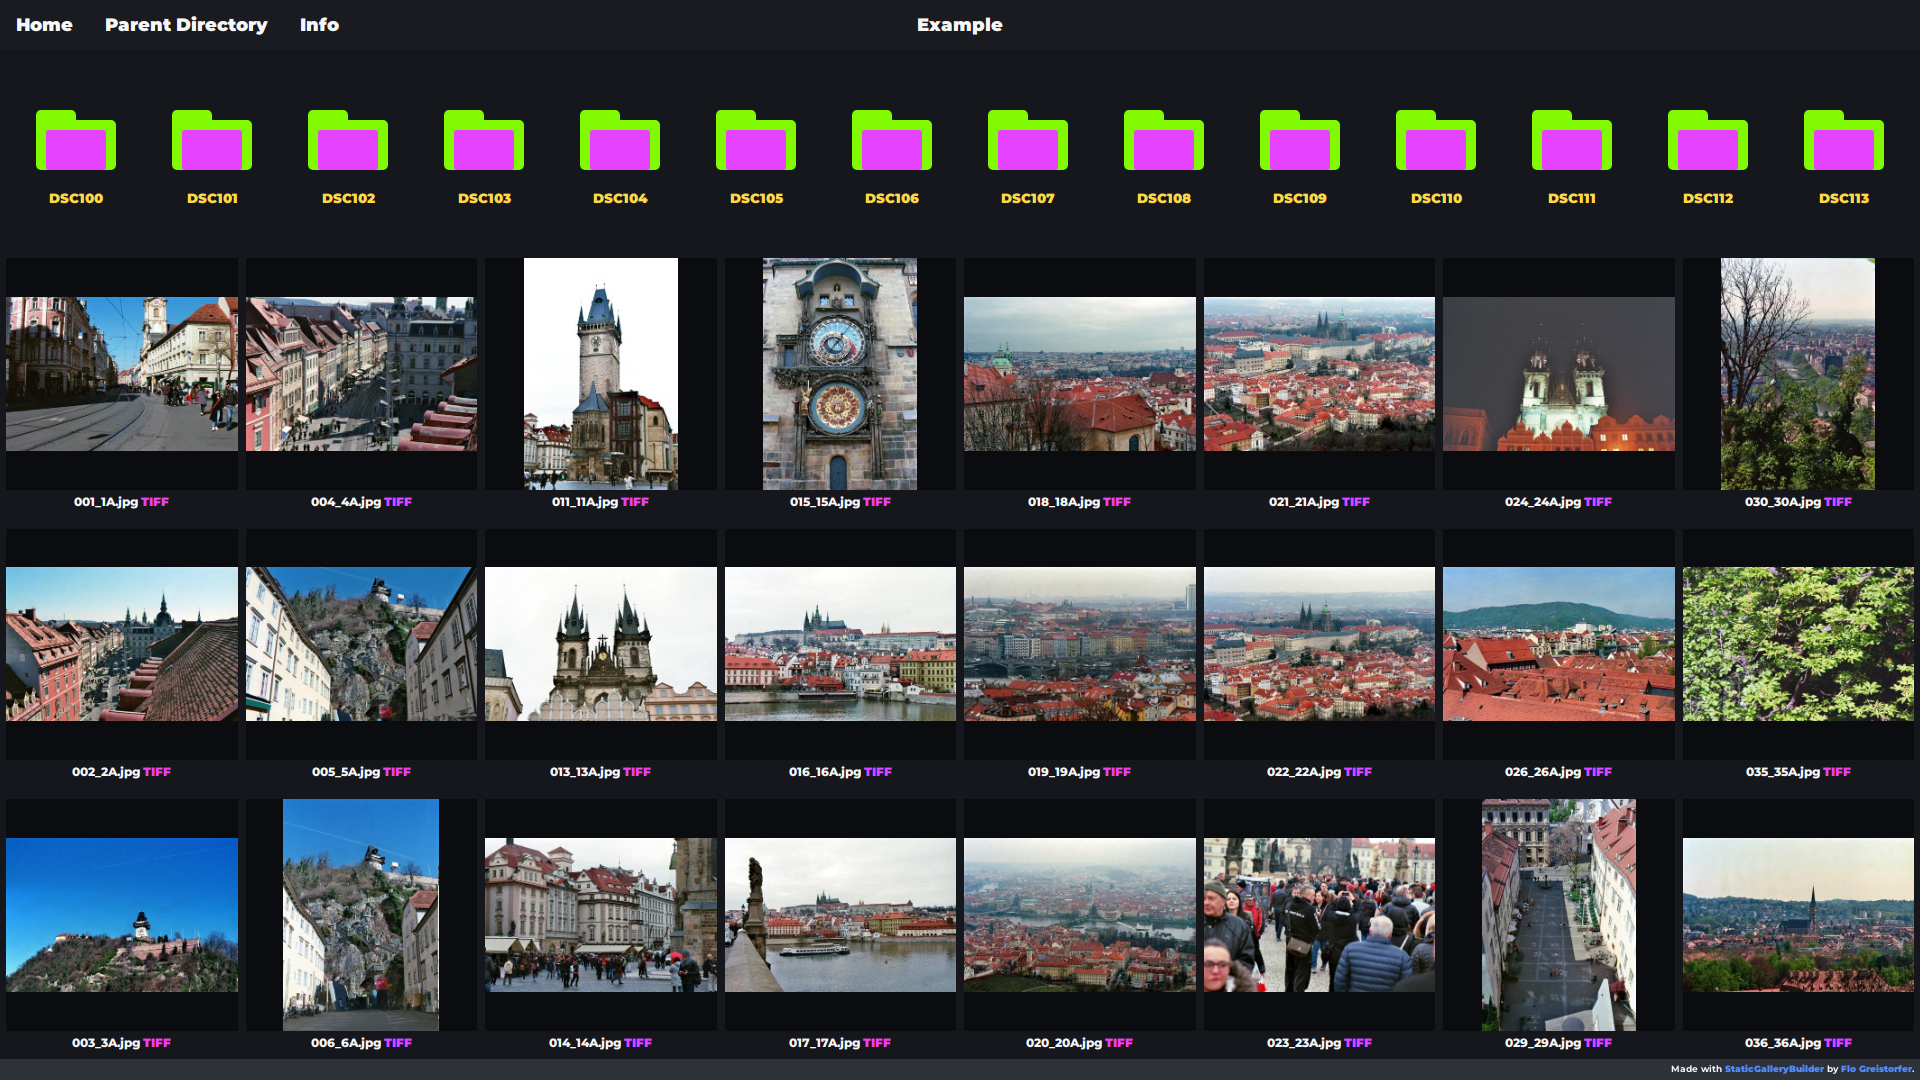
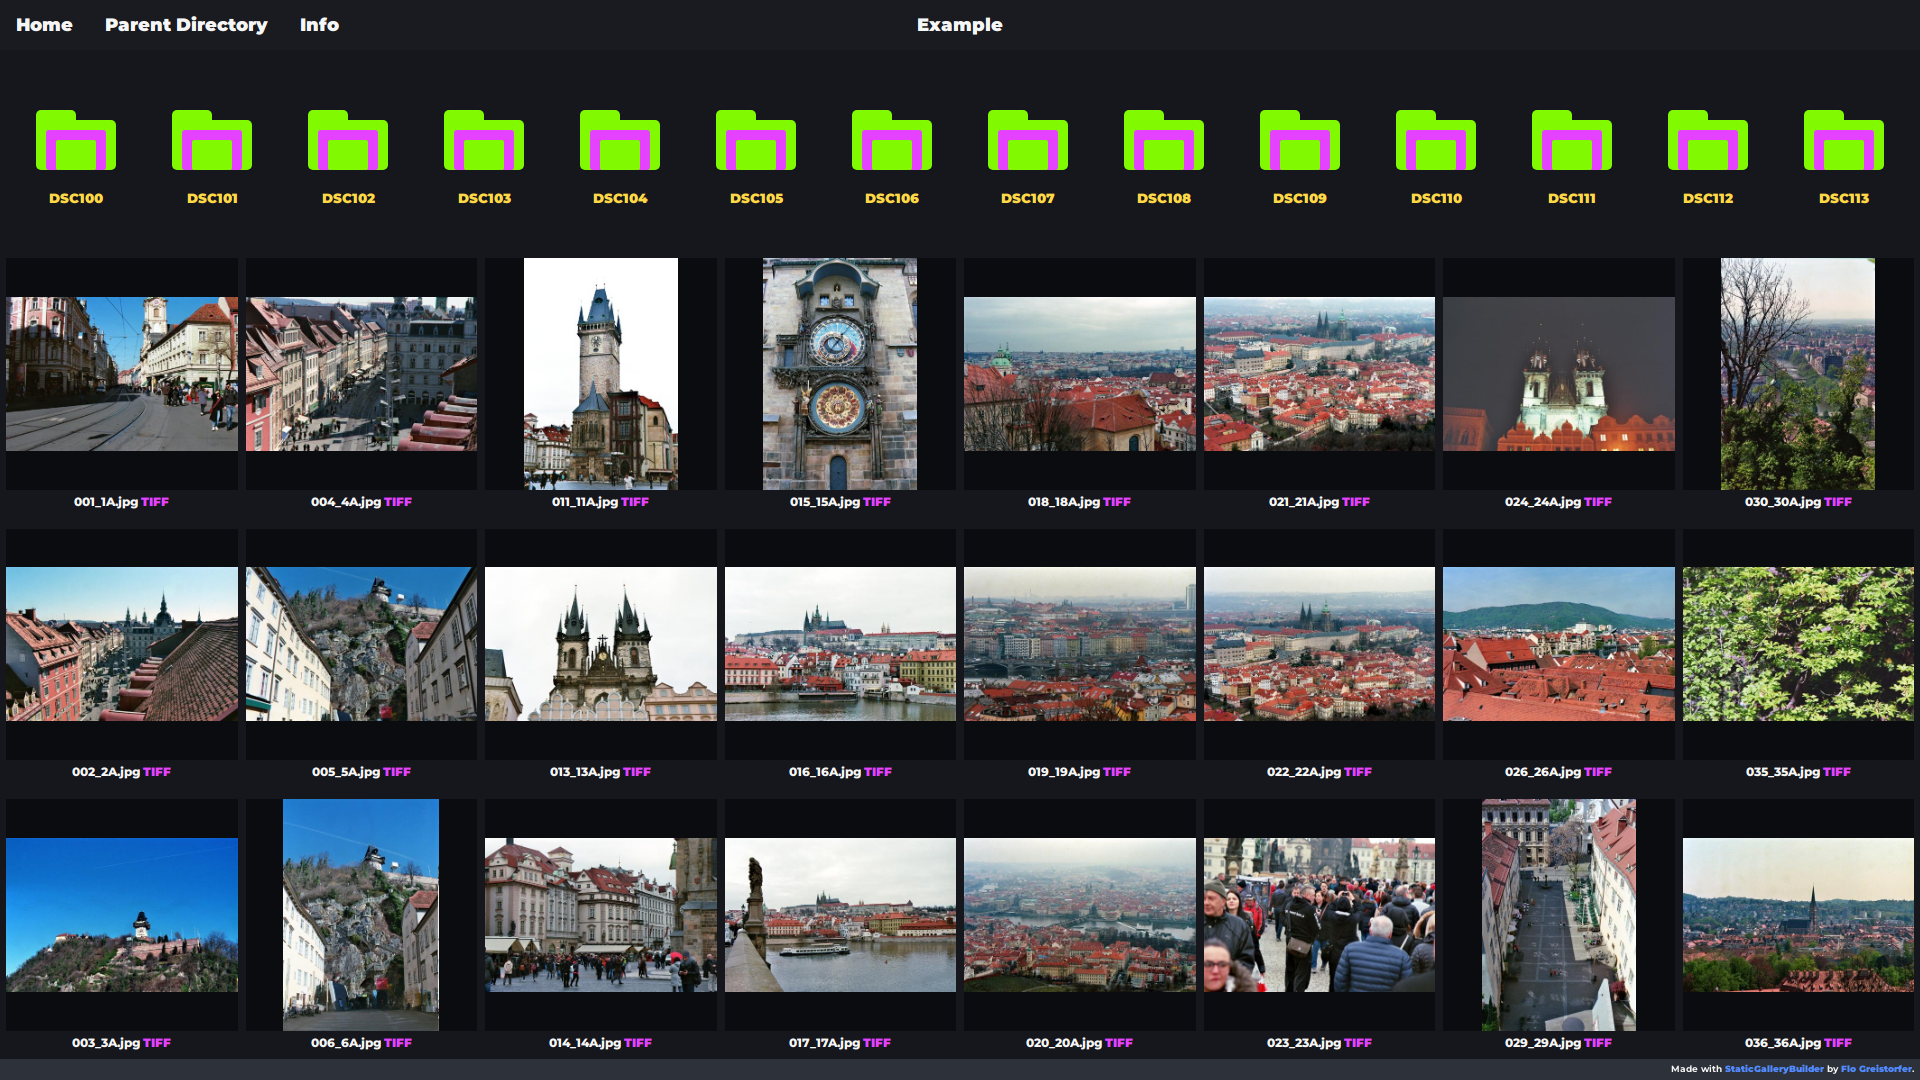
updated themes

diff --git a/index.html b/index.html
@@ -1,0 +1,26 @@
+<!DOCTYPE html>
+<html lang="en">
+<head>
+  <meta charset="utf-8">
+  <meta name="viewport" content="width=device-width, initial-scale=1">
+  <title>Themes</title>
+</head>
+<body><a href="previews/alpenglow.html">alpenglow</a><br>
+<a href="previews/aritim-dark.html">aritim-dark</a><br>
+<a href="previews/aritim.html">aritim</a><br>
+<a href="previews/autumn.html">autumn</a><br>
+<a href="previews/carnation.html">carnation</a><br>
+<a href="previews/catpuccin.html">catpuccin</a><br>
+<a href="previews/cornflower.html">cornflower</a><br>
+<a href="previews/default-dark.html">default-dark</a><br>
+<a href="previews/default.html">default</a><br>
+<a href="previews/ivy.html">ivy</a><br>
+<a href="previews/kjoe.html">kjoe</a><br>
+<a href="previews/monokai-vibrant.html">monokai-vibrant</a><br>
+<a href="previews/rainbow.html">rainbow</a><br>
+<a href="previews/spring.html">spring</a><br>
+<a href="previews/steam.html">steam</a><br>
+<a href="previews/summer.html">summer</a><br>
+<a href="previews/sunflower.html">sunflower</a><br>
+<a href="previews/winter.html">winter</a><br>
+</body></html>

diff --git a/winter.css b/winter.css
@@ -1,14 +1,22 @@
 @import url("https://fonts.googleapis.com/css2?family=Montserrat:wght@300;400;500;600;700&display=swap");
 
 * {
-  --color1: #00CED1; /* DarkTurquoise */
-  --color2: #4682B4; /* SteelBlue */
-  --color3: #B0C4DE; /* LightSteelBlue */
-  --color4: #5F9EA0; /* CadetBlue */
-  --bcolor1: #FFFFFF; /* White */
-  --bcolor2: #2F4F4F; /* DarkSlateGray */
-  --bcolor3: #E0E0E0; /* LightGray */
-  --bcolor4: #D3D3D3; /* LightGray */
+  --color1: #00CED1;
+  /* DarkTurquoise */
+  --color2: #4682B4;
+  /* SteelBlue */
+  --color3: #B0C4DE;
+  /* LightSteelBlue */
+  --color4: #5F9EA0;
+  /* CadetBlue */
+  --bcolor1: #FFFFFF;
+  /* White */
+  --bcolor2: #2F4F4F;
+  /* DarkSlateGray */
+  --bcolor3: #E0E0E0;
+  /* LightGray */
+  --bcolor4: #D3D3D3;
+  /* LightGray */
 }
 
 .navbar {
@@ -75,6 +83,7 @@
 
 .tooltiptext {
   font-weight: 400;
+  color: var(--bcolor3);
   background-color: var(--bcolor2);
   font-family: "Montserrat", sans-serif;
 }

diff --git a/aritim.css b/aritim.css
@@ -25,6 +25,7 @@
 /* Change the link color on hover */
 .navbar li a:hover {
   text-decoration: none;
+  color: var(--bcolor1);
   background-color: var(--bcolor2);
 }
 

diff --git a/spring.css b/spring.css
@@ -75,7 +75,7 @@
 
 .tooltiptext {
   font-weight: 400;
-  background-color: var(--bcolor2);
+  background-color: var(--bcolor4);
   font-family: "Lora", serif;
 }
 

diff --git a/summer.css b/summer.css
@@ -75,6 +75,7 @@
 
 .tooltiptext {
   font-weight: 400;
+  color: var(--bcolor1);
   background-color: var(--bcolor2);
   font-family: "Roboto", sans-serif;
 }

diff --git a/default.css b/default.css
@@ -49,7 +49,7 @@
 
 .tooltiptext {
   font-weight: 400;
-  background-color: var(--color3);
+  background-color: var(--color2);
 }
 
 .column img {

diff --git a/sunflower.css b/sunflower.css
@@ -70,6 +70,7 @@
 
 .tooltiptext {
   font-weight: 600;
+  color: var(--bcolor1);
   background-color: var(--bcolor2);
 }
 
